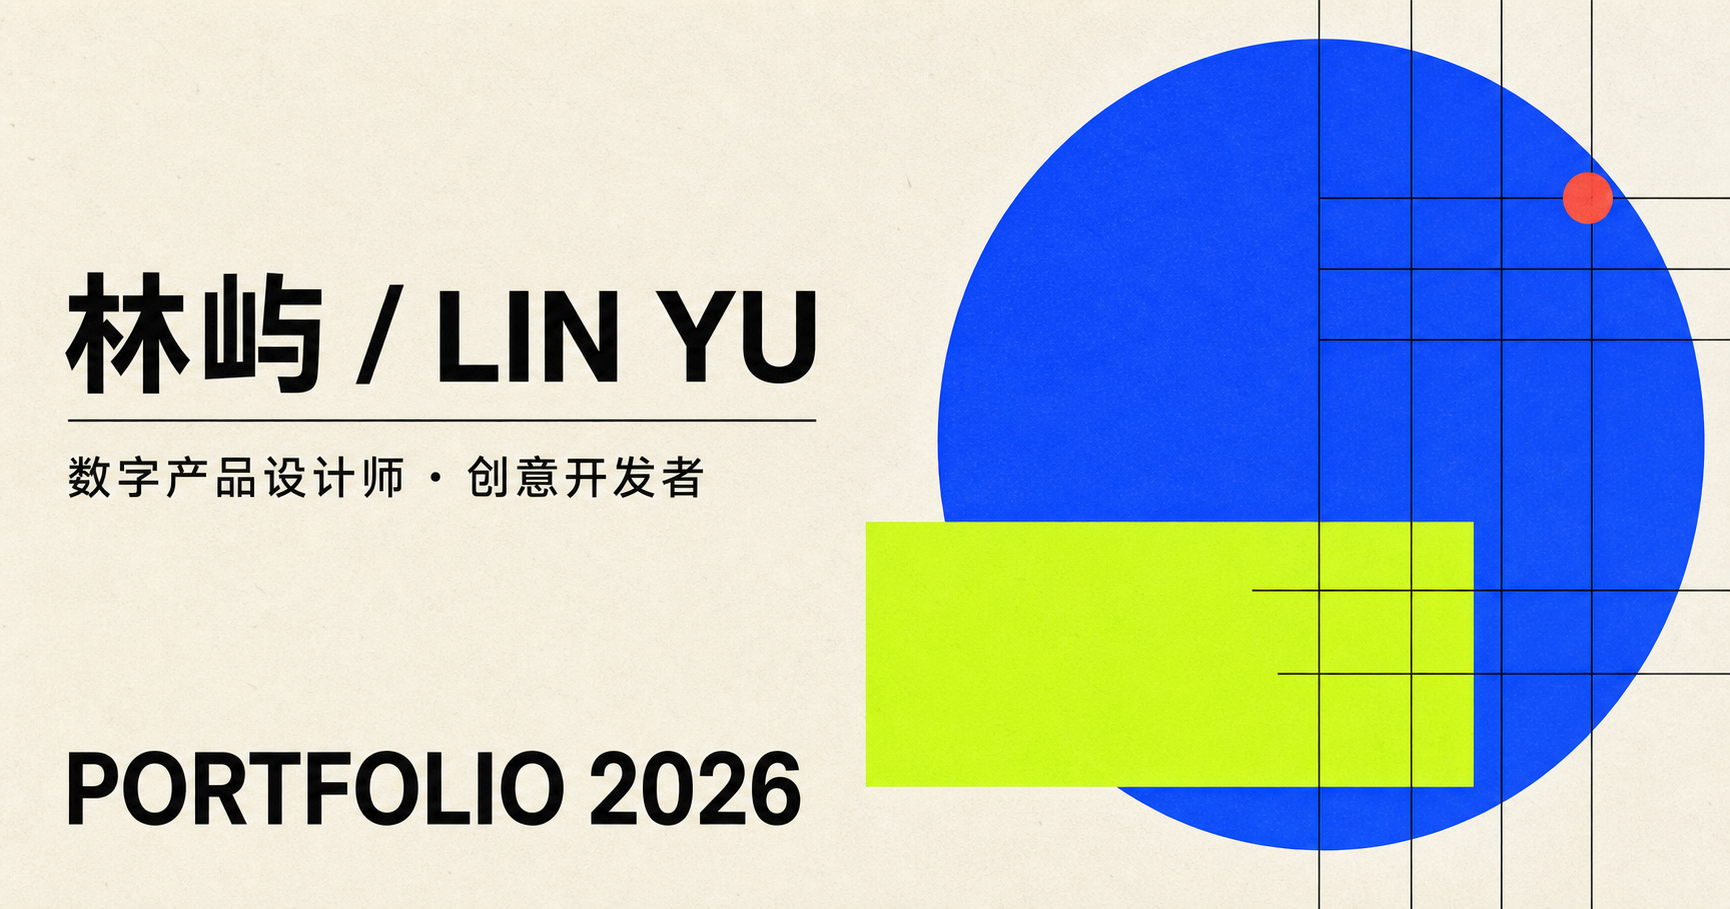
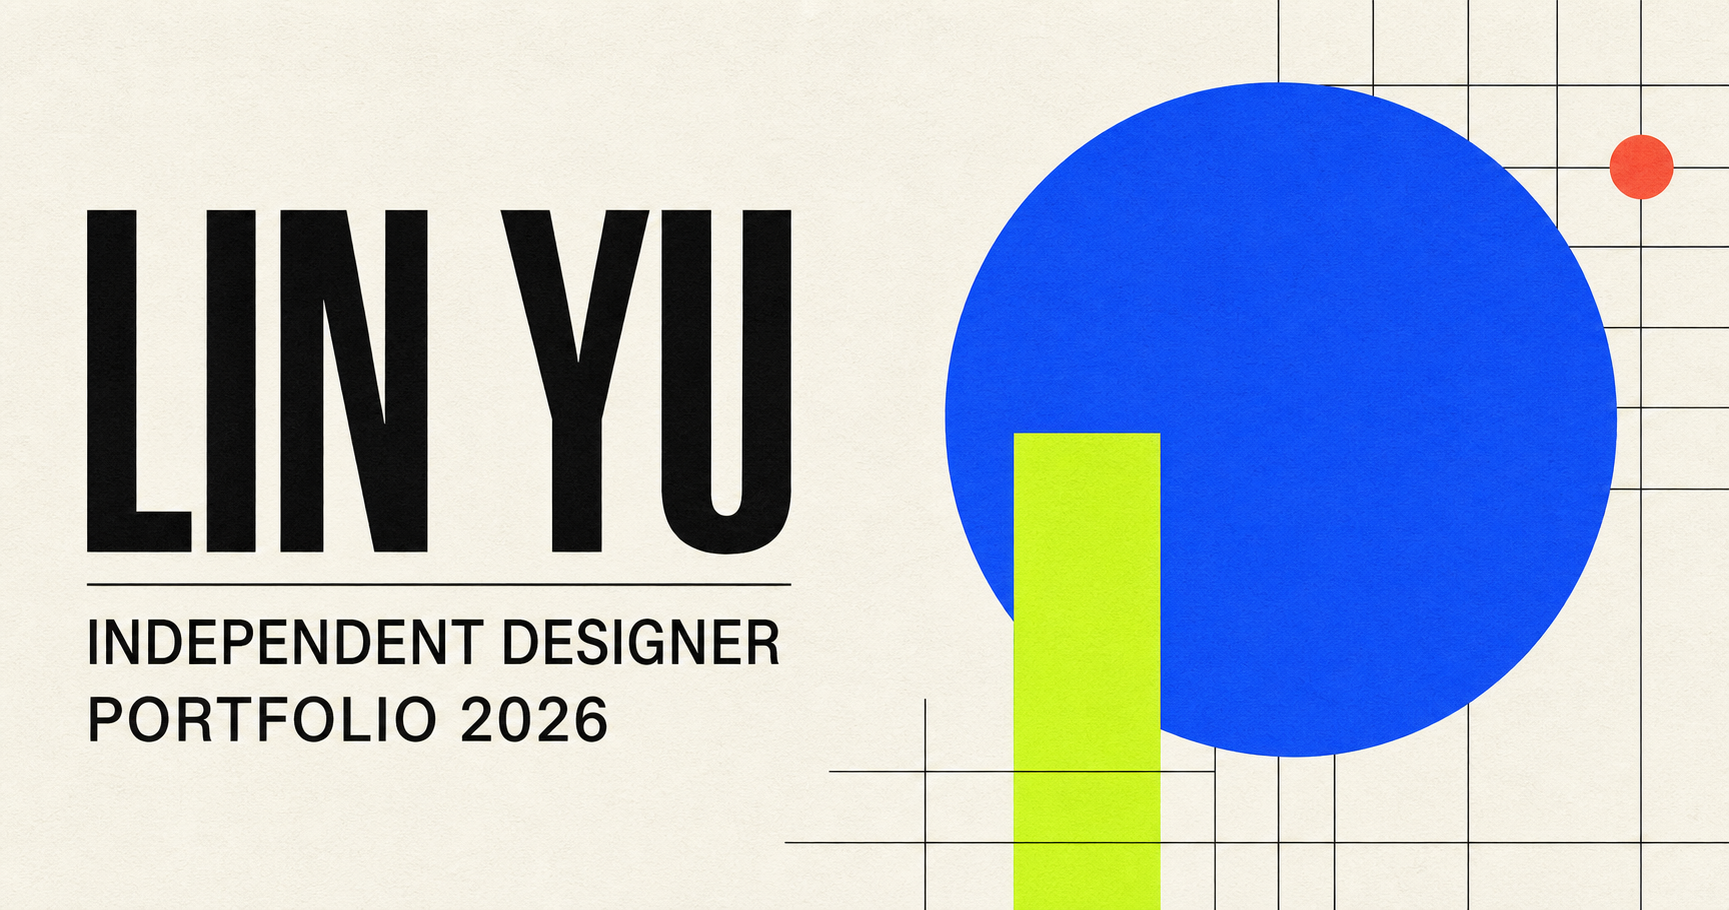
Translate portfolio to English

diff --git a/app/page.tsx b/app/page.tsx
@@ -2,50 +2,50 @@ const projects = [
   {
     number: "01",
     year: "2025",
-    title: "栖居",
-    subtitle: "让租房，也能有家的感觉",
+    title: "Hearth",
+    subtitle: "Making rented spaces feel like home",
     description:
-      "面向城市独居青年的居住体验平台。从用户研究、品牌策略到产品界面，重新组织找房之后的生活服务。",
-    tags: ["产品设计", "品牌策略", "用户研究"],
+      "A living experience platform for young urban renters. From user research and brand strategy to product interface, it rethinks the services that begin after finding a home.",
+    tags: ["Product Design", "Brand Strategy", "User Research"],
     className: "project-home",
     visual: (
       <div className="home-visual" aria-hidden="true">
         <div className="sun" />
         <div className="house"><span /><span /></div>
-        <p>QĪ JŪ<br />栖 居</p>
+        <p>HEARTH<br />HOME, REIMAGINED</p>
       </div>
     ),
   },
   {
     number: "02",
     year: "2025",
-    title: "流光",
-    subtitle: "一场关于时间的数字展览",
+    title: "Afterglow",
+    subtitle: "A digital exhibition about time",
     description:
-      "为新媒体艺术展打造的沉浸式线上体验。以时间为线索，让作品、声音与观众的浏览行为产生回应。",
-    tags: ["创意开发", "交互设计", "视觉系统"],
+      "An immersive online experience for a new-media art exhibition, using time as a thread that connects artworks, sound, and every visitor’s journey.",
+    tags: ["Creative Development", "Interaction Design", "Visual System"],
     className: "project-light",
     visual: (
       <div className="light-visual" aria-hidden="true">
         <div className="orb orb-one" /><div className="orb orb-two" />
         <span>TIME / LIGHT / MEMORY</span>
-        <strong>流<br />光</strong>
+        <strong>AFTER<br />GLOW</strong>
       </div>
     ),
   },
   {
     number: "03",
     year: "2024",
-    title: "食刻",
-    subtitle: "把时令带回每一餐",
+    title: "Seasonal Table",
+    subtitle: "Bringing the seasons back to every meal",
     description:
-      "从一张时令食材图谱出发，延展为内容、社区与购物一体的饮食应用，让日常选择更简单、更有温度。",
-    tags: ["移动端产品", "设计系统", "内容策略"],
+      "Starting with a seasonal ingredient guide, this food app brings together stories, community, and shopping to make everyday choices simpler and more meaningful.",
+    tags: ["Mobile Product", "Design System", "Content Strategy"],
     className: "project-food",
     visual: (
       <div className="food-visual" aria-hidden="true">
         <div className="plate"><i /><i /><i /></div>
-        <div className="food-type"><small>SEASONAL TABLE</small><strong>食刻</strong><span>春生 · 夏长 · 秋收 · 冬藏</span></div>
+        <div className="food-type"><small>SEASONAL TABLE</small><strong>TABLE</strong><span>SPRING · SUMMER · AUTUMN · WINTER</span></div>
       </div>
     ),
   },
@@ -54,20 +54,20 @@ const projects = [
 export default function Home() {
   return (
     <main>
-      <nav className="nav shell" aria-label="主导航">
-        <a className="brand" href="#top" aria-label="林屿作品集首页">LY<span>°</span></a>
+      <nav className="nav shell" aria-label="Main navigation">
+        <a className="brand" href="#top" aria-label="Lin Yu portfolio home">LY<span>°</span></a>
         <div className="nav-links">
-          <a href="#work">作品</a><a href="#about">关于</a><a href="#contact">联系</a>
+          <a href="#work">Work</a><a href="#about">About</a><a href="#contact">Contact</a>
         </div>
-        <a className="availability" href="mailto:hello@example.com"><span /> 接受新项目</a>
+        <a className="availability" href="mailto:hello@example.com"><span /> Available for projects</a>
       </nav>
 
       <header className="hero shell" id="top">
         <p className="eyebrow">Independent designer &amp; creative developer · Shanghai</p>
-        <h1>我把复杂的想法，<br />变成<span className="circled">清晰</span>而动人的<br />数字体验。</h1>
+        <h1>I turn complex ideas<br />into <span className="circled">clear</span>, memorable<br />digital experiences.</h1>
         <div className="hero-bottom">
-          <p>你好，我是林屿，一名专注数字产品、品牌体验与创意开发的独立设计师。</p>
-          <a className="round-link" href="#work" aria-label="查看精选作品"><span>↓</span> 看作品</a>
+          <p>Hi, I’m Lin Yu—an independent designer focused on digital products, brand experiences, and creative development.</p>
+          <a className="round-link" href="#work" aria-label="View selected work"><span>↓</span> View work</a>
         </div>
         <div className="hero-shape" aria-hidden="true"><span>IDEAS<br />INTO<br />IMPACT</span></div>
       </header>
@@ -75,8 +75,8 @@ export default function Home() {
       <section className="work shell" id="work">
         <div className="section-heading">
           <p className="kicker">01 / SELECTED WORK</p>
-          <h2>精选项目</h2>
-          <p>从洞察到落地，认真对待每一个细节。</p>
+          <h2>Selected work</h2>
+          <p>From first insight to final detail, every part is considered.</p>
         </div>
         <div className="project-list">
           {projects.map((project) => (
@@ -87,7 +87,7 @@ export default function Home() {
                 <h3>{project.title}</h3><h4>{project.subtitle}</h4>
                 <p>{project.description}</p>
                 <ul>{project.tags.map((tag) => <li key={tag}>{tag}</li>)}</ul>
-                <a href={`mailto:hello@example.com?subject=想了解项目：${project.title}`} aria-label={`了解${project.title}项目`}>查看项目 <span>↗</span></a>
+                <a href={`mailto:hello@example.com?subject=Project inquiry: ${project.title}`} aria-label={`Learn about ${project.title}`}>View project <span>↗</span></a>
               </div>
             </article>
           ))}
@@ -96,34 +96,34 @@ export default function Home() {
 
       <section className="services" id="about">
         <div className="shell services-grid">
-          <div><p className="kicker">02 / WHAT I DO</p><h2>想得清楚，<br />做得漂亮。</h2></div>
+          <div><p className="kicker">02 / WHAT I DO</p><h2>Think clearly.<br />Make beautifully.</h2></div>
           <div className="service-list">
-            <div><span>01</span><h3>产品与体验设计</h3><p>从用户洞察、信息架构到交互原型与视觉落地，构建真正好用的数字产品。</p></div>
-            <div><span>02</span><h3>品牌与视觉系统</h3><p>把品牌的核心想法变成一套有辨识度、可持续生长的视觉语言。</p></div>
-            <div><span>03</span><h3>创意开发</h3><p>用代码延伸设计，让网站、互动装置和数字体验拥有更鲜活的表达。</p></div>
+            <div><span>01</span><h3>Product &amp; Experience Design</h3><p>From user insight and information architecture to prototypes and final visuals, I create digital products people genuinely enjoy using.</p></div>
+            <div><span>02</span><h3>Brand &amp; Visual Systems</h3><p>I turn a brand’s core idea into a distinctive visual language built to grow with it.</p></div>
+            <div><span>03</span><h3>Creative Development</h3><p>I use code to extend design, bringing more life to websites, installations, and digital experiences.</p></div>
           </div>
         </div>
       </section>
 
       <section className="about shell">
-        <div className="portrait" aria-hidden="true"><div className="portrait-mark">林<br />屿</div><span>DESIGN WITH CURIOSITY</span></div>
+        <div className="portrait" aria-hidden="true"><div className="portrait-mark">LIN<br />YU</div><span>DESIGN WITH CURIOSITY</span></div>
         <div className="about-copy">
           <p className="kicker">03 / ABOUT ME</p>
-          <h2>保持好奇，<br />也保持<span>具体。</span></h2>
-          <p className="lead">我相信好的设计，不只是在屏幕上看起来漂亮，而是能让人与信息、服务和彼此建立更自然的连接。</p>
-          <p>过去 6 年，我与不同阶段的团队合作，从零到一打造产品，也帮助成熟品牌寻找新的表达。工作之外，我喜欢逛旧书店、拍城市里不起眼的角落，以及不断折腾自己的小项目。</p>
-          <div className="facts"><div><strong>6+</strong><span>年设计经验</span></div><div><strong>24</strong><span>个落地项目</span></div><div><strong>8</strong><span>项设计奖项</span></div></div>
+          <h2>Stay curious.<br />Stay <span>specific.</span></h2>
+          <p className="lead">I believe great design is more than looking good on screen. It helps people form more natural connections with information, services, and each other.</p>
+          <p>For the past six years, I’ve worked with teams at every stage—from shaping products from zero to helping established brands find new ways to speak. Away from work, I browse old bookshops, photograph overlooked city corners, and keep making small things of my own.</p>
+          <div className="facts"><div><strong>6+</strong><span>Years of experience</span></div><div><strong>24</strong><span>Launched projects</span></div><div><strong>8</strong><span>Design awards</span></div></div>
         </div>
       </section>
 
       <footer id="contact">
         <div className="shell footer-inner">
           <p className="kicker">04 / LET&apos;S TALK</p>
-          <h2>有个好想法？<br /><a href="mailto:hello@example.com">一起把它做出来。<span>↗</span></a></h2>
+          <h2>Have a good idea?<br /><a href="mailto:hello@example.com">Let’s make it real. <span>↗</span></a></h2>
           <div className="footer-bottom">
-            <p>© 2026 林屿. 用好奇心与代码制作。</p>
-            <div><a href="#">即刻</a><a href="#">小红书</a><a href="#">LinkedIn</a><a href="mailto:hello@example.com">Email</a></div>
-            <a href="#top">回到顶部 ↑</a>
+            <p>© 2026 Lin Yu. Made with curiosity and code.</p>
+            <div><a href="#">Instant</a><a href="#">RED</a><a href="#">LinkedIn</a><a href="mailto:hello@example.com">Email</a></div>
+            <a href="#top">Back to top ↑</a>
           </div>
         </div>
       </footer>

diff --git a/app/layout.tsx b/app/layout.tsx
@@ -6,13 +6,13 @@ const geistSans = Geist({ variable: "--font-geist-sans", subsets: ["latin"] });
 const geistMono = Geist_Mono({ variable: "--font-geist-mono", subsets: ["latin"] });
 
 export const metadata: Metadata = {
-  title: "林屿 — 数字产品设计师与创意开发者",
-  description: "林屿的个人作品集，专注数字产品、品牌体验与创意开发。",
+  title: "Lin Yu — Independent Designer & Creative Developer",
+  description: "Lin Yu’s portfolio for digital products, brand experiences, and creative development.",
   icons: { icon: "/favicon.svg", shortcut: "/favicon.svg" },
-  openGraph: { title: "林屿 / LIN YU", description: "数字产品设计师 · 创意开发者", images: ["/og.png"] },
-  twitter: { card: "summary_large_image", title: "林屿 / LIN YU", description: "数字产品设计师 · 创意开发者", images: ["/og.png"] },
+  openGraph: { title: "Lin Yu / Independent Designer", description: "Digital product designer and creative developer.", images: ["/og.png"] },
+  twitter: { card: "summary_large_image", title: "Lin Yu / Independent Designer", description: "Digital product designer and creative developer.", images: ["/og.png"] },
 };
 
 export default function RootLayout({ children }: Readonly<{ children: React.ReactNode }>) {
-  return <html lang="zh-CN"><body className={`${geistSans.variable} ${geistMono.variable}`}>{children}</body></html>;
+  return <html lang="en"><body className={`${geistSans.variable} ${geistMono.variable}`}>{children}</body></html>;
 }
